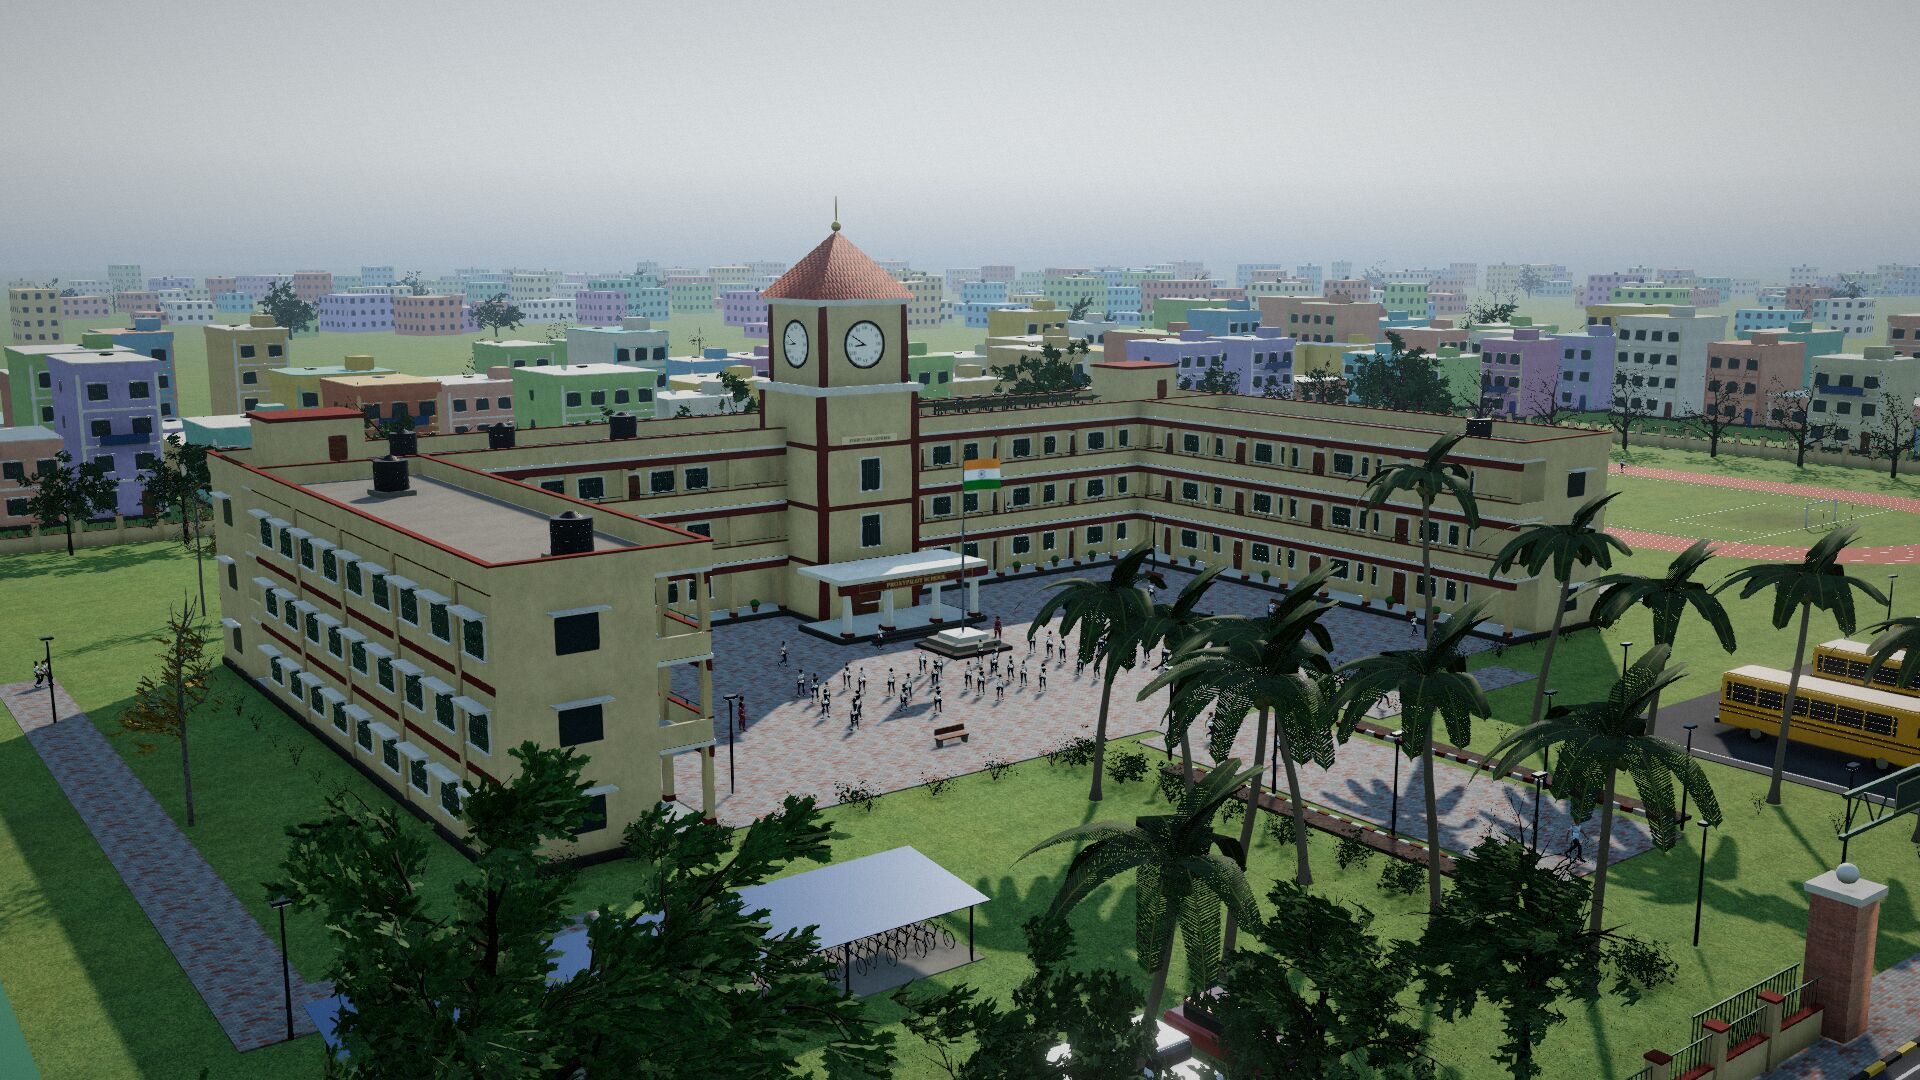
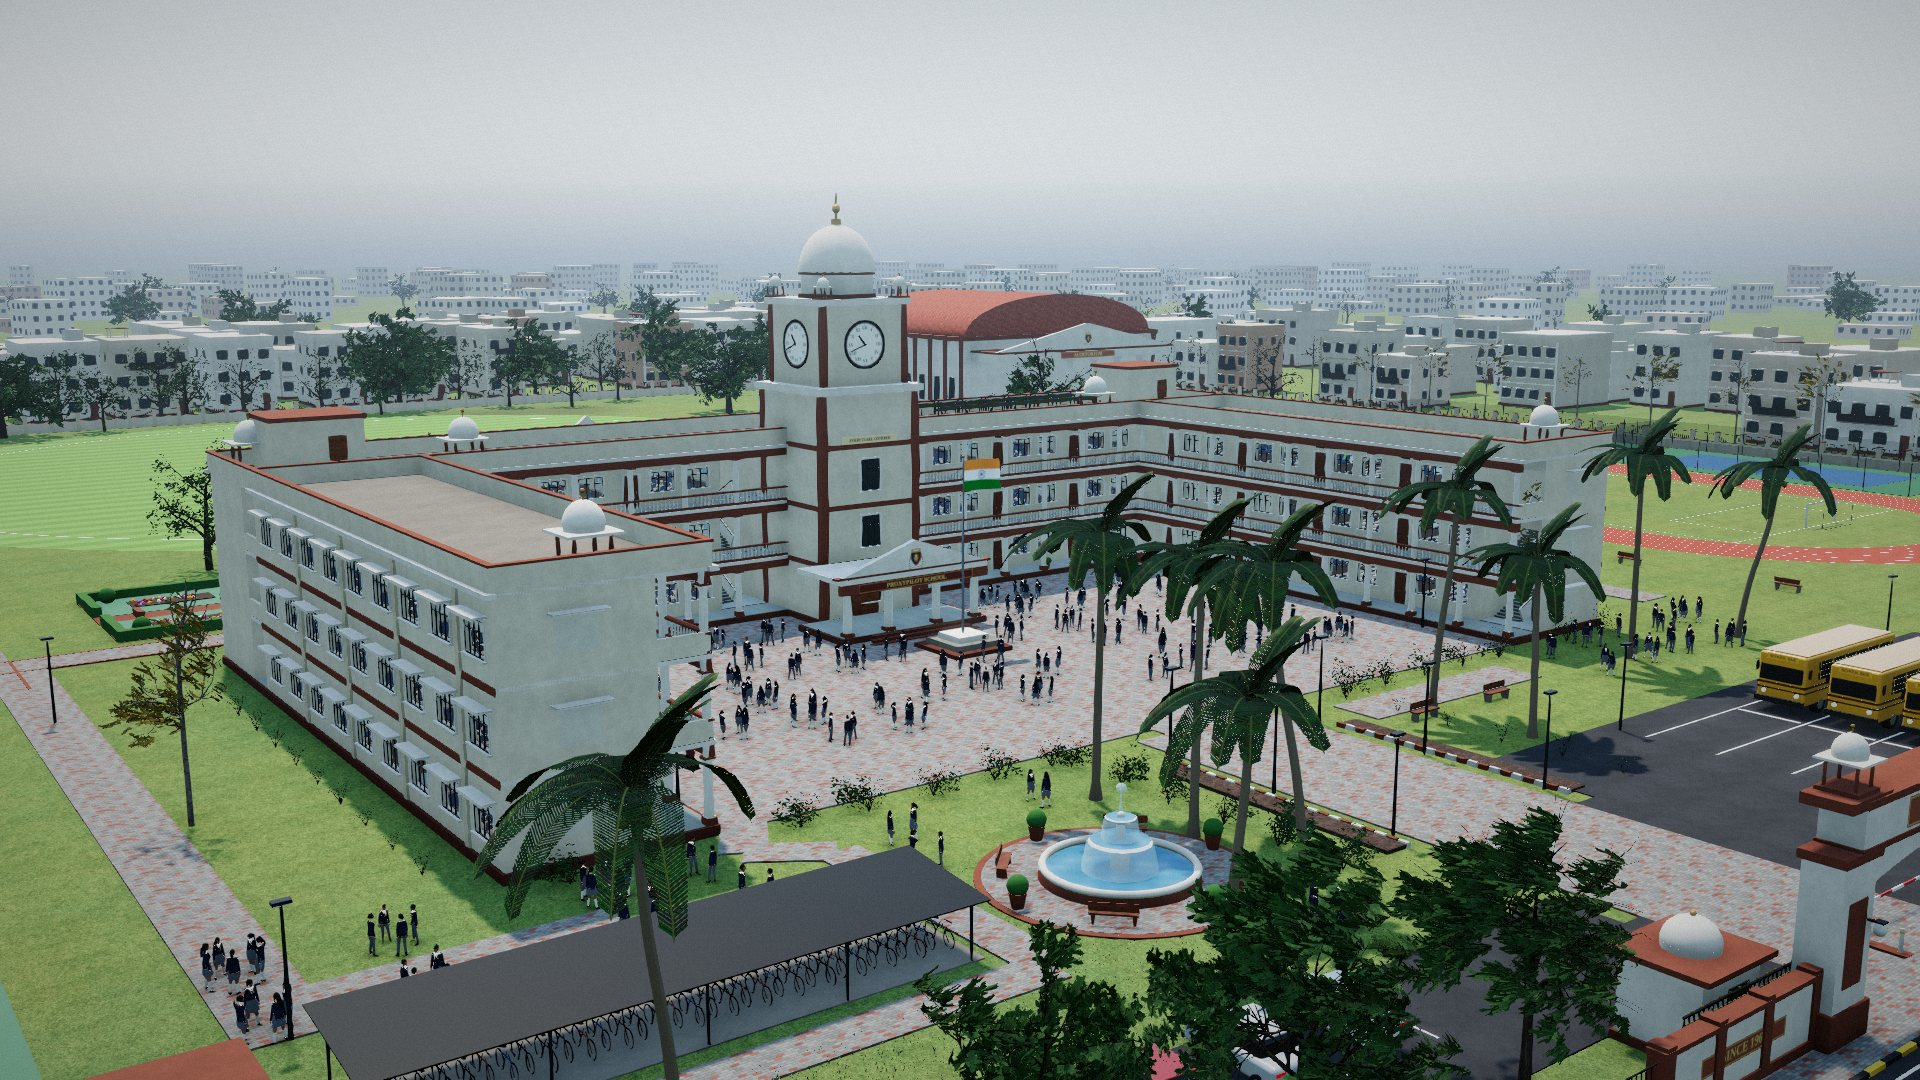
Period label in Our school, new campus photos

diff --git a/client/src/pages/Home.jsx b/client/src/pages/Home.jsx
@@ -291,6 +291,14 @@ export default function Home() {
             </div>
           </div>
         )}
+        {/* while watching: just the time and which period it is, small in the corner */}
+        {watching && live && (
+          <div className="glass pointer-events-none absolute left-4 top-4 z-30 flex h-9 items-center gap-2.5 rounded-[11px] px-3 sm:left-6 sm:top-6" role="status">
+            <span className="h-1.5 w-1.5 rounded-full bg-sage shadow-[0_0_8px_2px_rgba(98,211,155,0.55)]" />
+            <span className="font-mono text-sm tabular-nums leading-none text-ink">{clockLabel(clock.m)}</span>
+            <span className="font-mono text-[10px] uppercase tracking-[0.14em] text-brass">{phaseLabel(clock.m)}</span>
+          </div>
+        )}
         {watching && (
           <button
             onClick={stopWatching}
